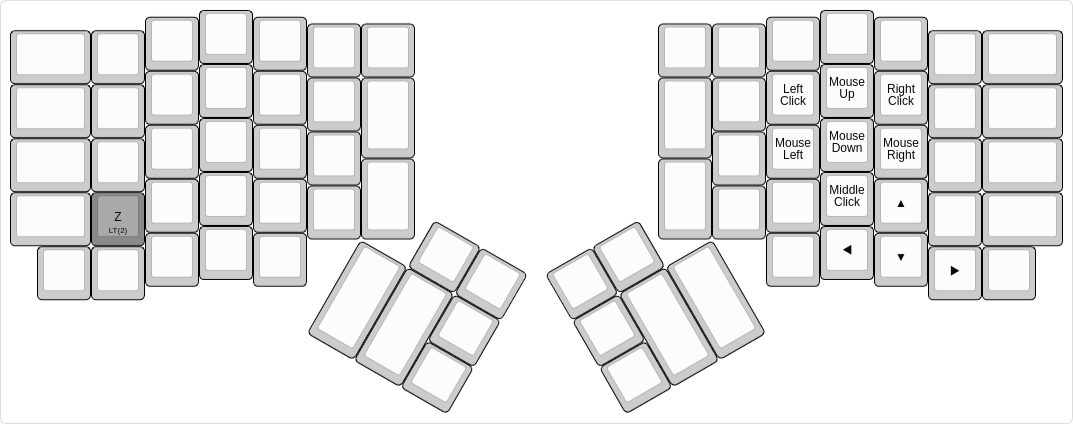
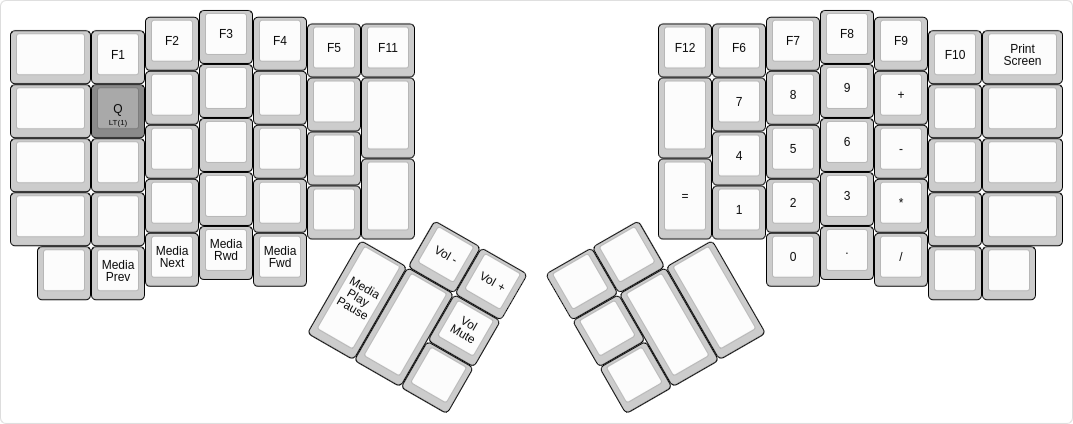
Add volume controls to ergodox.

diff --git a/ergodox/keymap.c b/ergodox/keymap.c
@@ -64,8 +64,8 @@ const uint16_t PROGMEM keymaps[][MATRIX_ROWS][MATRIX_COLS] = {
         _______, _______, _______, _______, _______, _______, _______,
         _______, KC_MEDIA_PREV_TRACK, KC_MEDIA_NEXT_TRACK, KC_MEDIA_REWIND, KC_MEDIA_FAST_FORWARD,
 
-        _______, _______,
-        _______,
+        KC_AUDIO_VOL_DOWN, KC_AUDIO_VOL_UP,
+        KC_AUDIO_MUTE,
         KC_MEDIA_PLAY_PAUSE, _______, _______,
 
         // right hand

diff --git a/ergodox/README.md b/ergodox/README.md
@@ -25,6 +25,9 @@ My layout for the [ErgoDox EZ][ez].
 Contains keys for navigation by mouse and a set of arrow keys oriented in the regular fashion.
 
 ## Macro Layer
+
+[![Macro layer](./images/macros.png)](http://www.keyboard-layout-editor.com/#/gists/6632ee175b508fd975c53c0555c8f70b)
+
 - `s` types `¯\_(ツ)_/¯`
 - `l` types `( ͡° ͜ʖ ͡°)`.
 - `t` types `(╯°□°）╯︵ ┻━┻`.
